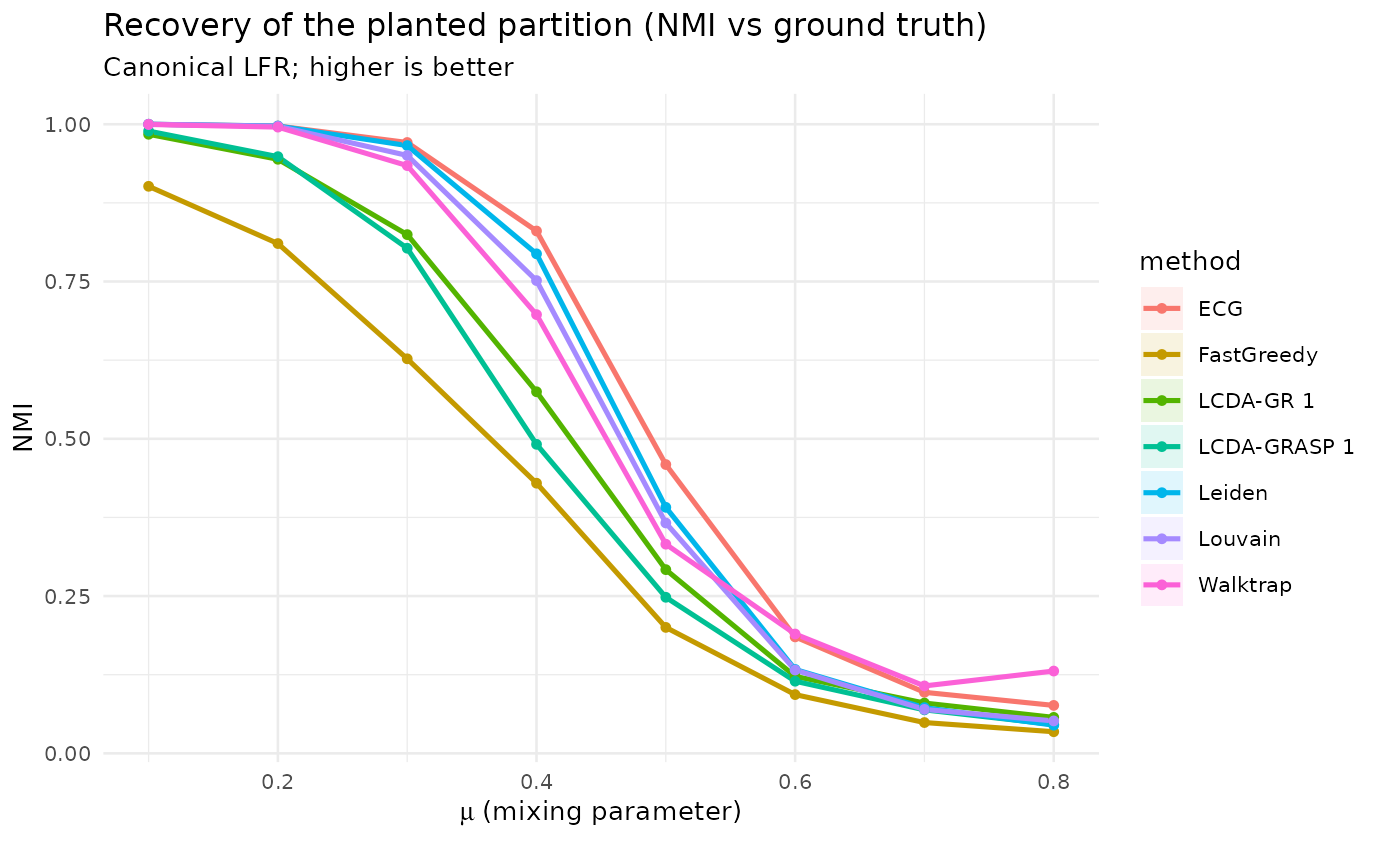
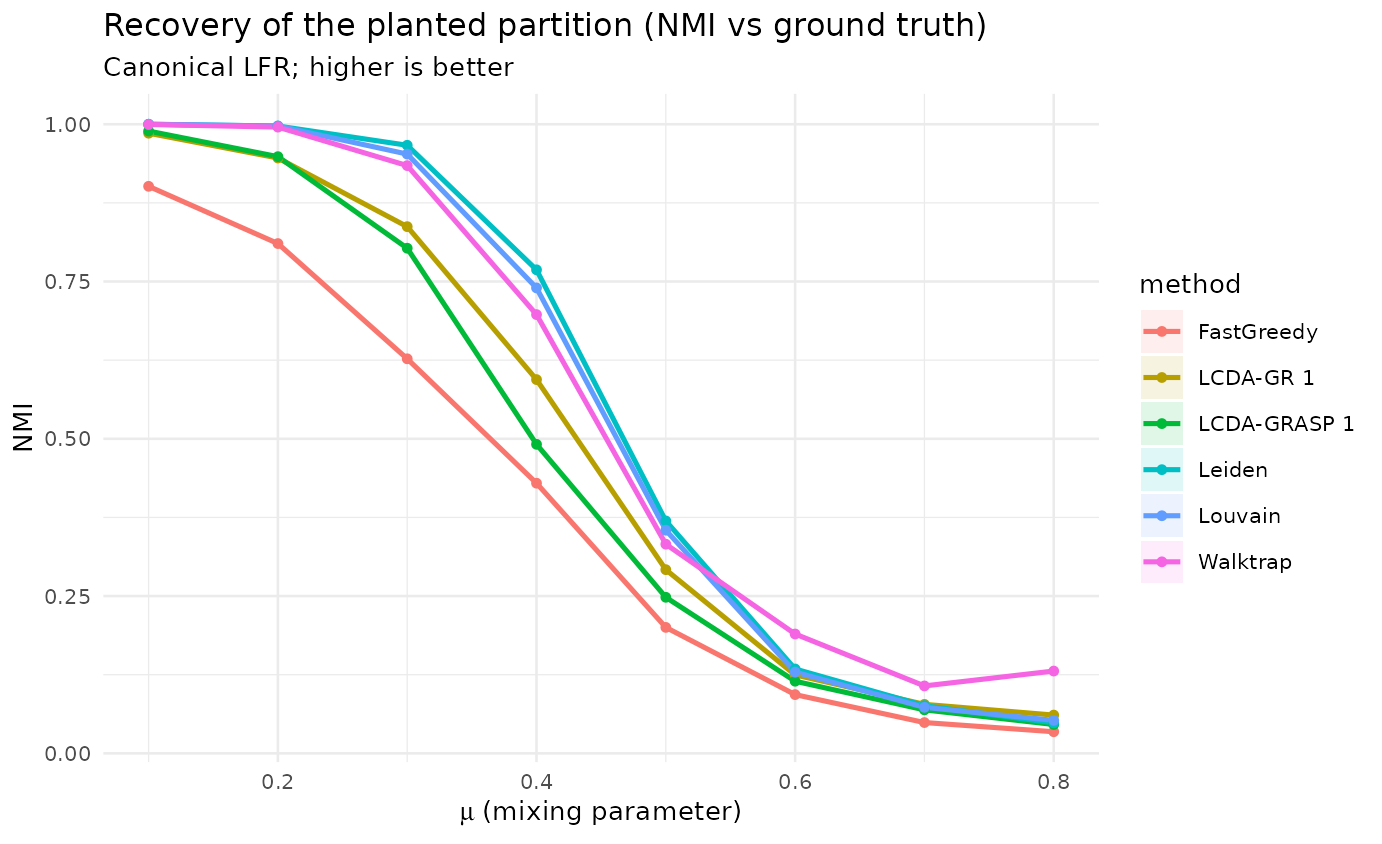
Deploying to gh-pages from @ castlaboratory/lcdaGRASP@181f5969fce89c65b27c1f63b23dc032080c1001 🚀

diff --git a/articles/robustness-lfr.html b/articles/robustness-lfr.html
@@ -103,7 +103,7 @@ information (NMI) against the planted partition.
 <math display="inline" xmlns="http://www.w3.org/1998/Math/MathML"><semantics><mi>Q</mi><annotation encoding="application/x-tex">Q</annotation></semantics></math>
 alone cannot tell you whether the <em>recovered</em> partition is
 correct; ARI/NMI can.</p>
-<p><strong>Generated.</strong> 2026-05-29, lcdaGRASP 0.2.0, 10 reps,
+<p><strong>Generated.</strong> 2026-05-31, lcdaGRASP 0.3.0, 10 reps,
 n=500.</p>
 <ul>
 <li>Generator: canonical LFR (Lancichinetti-Fortunato-Radicchi 2008) via
@@ -131,7 +131,7 @@ modest for runtime.</li>
 <span>       subtitle <span class="op">=</span> <span class="st">"Canonical LFR; higher is better"</span>,</span>
 <span>       x <span class="op">=</span> <span class="fu"><a href="https://rdrr.io/r/base/expression.html" class="external-link">expression</a></span><span class="op">(</span><span class="va">mu</span><span class="op">~</span><span class="st">"(mixing parameter)"</span><span class="op">)</span>, y <span class="op">=</span> <span class="st">"NMI"</span><span class="op">)</span> <span class="op">+</span></span>
 <span>  <span class="fu"><a href="https://ggplot2.tidyverse.org/reference/ggtheme.html" class="external-link">theme_minimal</a></span><span class="op">(</span>base_size <span class="op">=</span> <span class="fl">10</span><span class="op">)</span></span>
-<span><span class="co">#&gt; Warning: Removed 56 rows containing missing values or values outside the scale range</span></span>
+<span><span class="co">#&gt; Warning: Removed 48 rows containing missing values or values outside the scale range</span></span>
 <span><span class="co">#&gt; (`geom_ribbon()`).</span></span></code></pre></div>
 <p><img src="robustness-lfr_files/figure-html/plot-nmi-1.png" class="r-plt" alt="" width="691.2"></p>
 <div class="sourceCode" id="cb3"><pre class="downlit sourceCode r">
@@ -151,42 +151,36 @@ mixing.</caption>
 </tr></thead>
 <tbody>
 <tr class="odd">
-<td align="left">ECG</td>
-<td align="right">0.997</td>
-<td align="right">0.830</td>
-<td align="right">0.185</td>
-</tr>
-<tr class="even">
 <td align="left">FastGreedy</td>
 <td align="right">0.810</td>
 <td align="right">0.429</td>
 <td align="right">0.093</td>
 </tr>
-<tr class="odd">
-<td align="left">LCDA-GR 1</td>
-<td align="right">0.944</td>
-<td align="right">0.575</td>
-<td align="right">0.122</td>
-</tr>
 <tr class="even">
+<td align="left">LCDA-GR 1</td>
+<td align="right">0.946</td>
+<td align="right">0.594</td>
+<td align="right">0.125</td>
+</tr>
+<tr class="odd">
 <td align="left">LCDA-GRASP 1</td>
 <td align="right">0.948</td>
 <td align="right">0.491</td>
 <td align="right">0.115</td>
 </tr>
-<tr class="odd">
+<tr class="even">
 <td align="left">Leiden</td>
 <td align="right">0.997</td>
-<td align="right">0.794</td>
-<td align="right">0.133</td>
-</tr>
-<tr class="even">
-<td align="left">Louvain</td>
-<td align="right">0.997</td>
-<td align="right">0.751</td>
-<td align="right">0.132</td>
+<td align="right">0.769</td>
+<td align="right">0.134</td>
 </tr>
 <tr class="odd">
+<td align="left">Louvain</td>
+<td align="right">0.997</td>
+<td align="right">0.740</td>
+<td align="right">0.129</td>
+</tr>
+<tr class="even">
 <td align="left">Walktrap</td>
 <td align="right">0.995</td>
 <td align="right">0.697</td>

diff --git a/reference/as_graph.html b/reference/as_graph.html
@@ -76,8 +76,8 @@
     <h2 id="ref-examples">Examples<a class="anchor" aria-label="anchor" href="#ref-examples"></a></h2>
     <div class="sourceCode"><pre class="sourceCode r"><code><span class="r-in"><span><span class="va">el</span> <span class="op">&lt;-</span> <span class="fu"><a href="https://rdrr.io/r/base/matrix.html" class="external-link">matrix</a></span><span class="op">(</span><span class="fu"><a href="https://rdrr.io/r/base/c.html" class="external-link">c</a></span><span class="op">(</span><span class="fl">1</span>, <span class="fl">2</span>, <span class="fl">2</span>, <span class="fl">3</span>, <span class="fl">3</span>, <span class="fl">1</span><span class="op">)</span>, ncol <span class="op">=</span> <span class="fl">2</span>, byrow <span class="op">=</span> <span class="cn">TRUE</span><span class="op">)</span></span></span>
 <span class="r-in"><span><span class="fu">as_graph</span><span class="op">(</span><span class="va">el</span><span class="op">)</span></span></span>
-<span class="r-out co"><span class="r-pr">#&gt;</span> IGRAPH 66ac7ca U--- 3 3 -- </span>
-<span class="r-out co"><span class="r-pr">#&gt;</span> + edges from 66ac7ca:</span>
+<span class="r-out co"><span class="r-pr">#&gt;</span> IGRAPH 4f6ae1c U--- 3 3 -- </span>
+<span class="r-out co"><span class="r-pr">#&gt;</span> + edges from 4f6ae1c:</span>
 <span class="r-out co"><span class="r-pr">#&gt;</span> [1] 1--2 1--3 2--3</span>
 </code></pre></div>
     </div>

diff --git a/articles/robustness-lfr.md b/articles/robustness-lfr.md
@@ -12,7 +12,7 @@ normalized mutual information (NMI) against the planted partition. $`Q`$
 alone cannot tell you whether the *recovered* partition is correct;
 ARI/NMI can.
 
-**Generated.** 2026-05-29, lcdaGRASP 0.2.0, 10 reps, n=500.
+**Generated.** 2026-05-31, lcdaGRASP 0.3.0, 10 reps, n=500.
 
 - Generator: canonical LFR (Lancichinetti-Fortunato-Radicchi 2008) via
   networkx 3.6.1 (.venv-lfr); tau1=2.5, tau2=1.5, avg_degree=12, comm in
@@ -43,7 +43,7 @@ ggplot(sm, aes(mu, NMI, colour = method, fill = method)) +
        subtitle = "Canonical LFR; higher is better",
        x = expression(mu~"(mixing parameter)"), y = "NMI") +
   theme_minimal(base_size = 10)
-#> Warning: Removed 56 rows containing missing values or values outside the scale range
+#> Warning: Removed 48 rows containing missing values or values outside the scale range
 #> (`geom_ribbon()`).
 ```
 
@@ -60,12 +60,11 @@ sm |>
 
 | method       |   0.2 |   0.4 |   0.6 |
 |:-------------|------:|------:|------:|
-| ECG          | 0.997 | 0.830 | 0.185 |
 | FastGreedy   | 0.810 | 0.429 | 0.093 |
-| LCDA-GR 1    | 0.944 | 0.575 | 0.122 |
+| LCDA-GR 1    | 0.946 | 0.594 | 0.125 |
 | LCDA-GRASP 1 | 0.948 | 0.491 | 0.115 |
-| Leiden       | 0.997 | 0.794 | 0.133 |
-| Louvain      | 0.997 | 0.751 | 0.132 |
+| Leiden       | 0.997 | 0.769 | 0.134 |
+| Louvain      | 0.997 | 0.740 | 0.129 |
 | Walktrap     | 0.995 | 0.697 | 0.190 |
 
 NMI vs the planted partition at low/medium/high mixing. {.table}

diff --git a/reference/as_graph.md b/reference/as_graph.md
@@ -24,7 +24,7 @@ an undirected igraph object.
 ``` r
 el <- matrix(c(1, 2, 2, 3, 3, 1), ncol = 2, byrow = TRUE)
 as_graph(el)
-#> IGRAPH 66ac7ca U--- 3 3 -- 
-#> + edges from 66ac7ca:
+#> IGRAPH 4f6ae1c U--- 3 3 -- 
+#> + edges from 4f6ae1c:
 #> [1] 1--2 1--3 2--3
 ```
